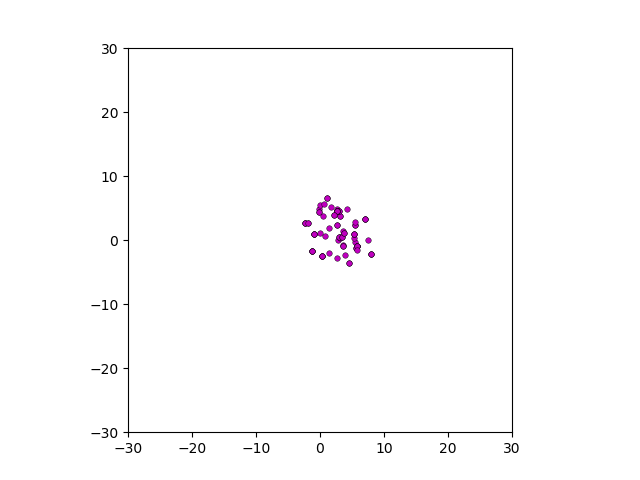
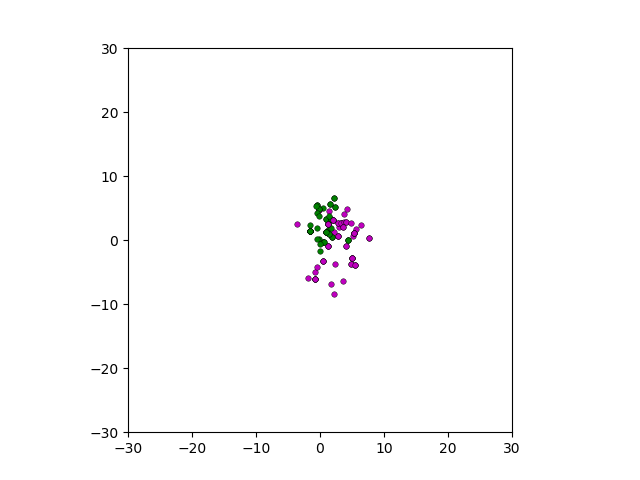
Commit 7-12-18 1517
Modified cell_count function so that if cell_type was unspecified, then the entire cell_count was returned. Added print statement to track the number of cells of each type at each time step.

Changed region(s): [[0.4688, 0.4062, 0.5938, 0.5938], [0.5, 0.5938, 0.5312, 0.625]]

diff --git a/tumor_simulation-HLL.py b/tumor_simulation-HLL.py
@@ -12,9 +12,9 @@ DX = 1.  # Grid spacing
 D = .05  # Diffusion constant
 tau_D = 1 / (2 * DIM) * DX ** 2 / D  # Diffusion time constant
 
-RATE_B = {'A': 0.1, 'B': 0.2}
+RATE_B = {'A': 0.1, 'B': 0.3}
 # TO DO: for multiple cell types, RATE_B will be a dictionary indicating birth rates of each cell
-RATE_D = 0.05  # Death rate
+RATE_D = 0.03  # Death rate
 CARRYING_CAPACITY = 20  # Number of sustainable cells at each gridpoint
 
 k1 = (1 - 0.33) / np.log(2)
@@ -26,7 +26,7 @@ CELL_TYPES_LIST = ('A', 'B')
 CELL_COLORS = {'A': 'm', 'B': 'g'}
 
 t_final = 150.
-MUT_TIME = 0.5 * t_final
+MUT_TIME = 0.1 * t_final
 
 class Cell:
     """A cell object contains the information about a tumor cell.
@@ -325,5 +325,5 @@ while t < t_final:
     filepath = os.path.join(SAVE_DIR, filename + '.png')
     images.append(imageio.imread(filepath))
 
-imageio.mimsave(SAVE_DIR + 'animation.gif', images, duration=0.2)
+imageio.mimsave(SAVE_DIR + 'animationLLL.gif', images, duration=0.2)
 print('Animation successfully assembled')

diff --git a/tumor_simulation-LLL.py b/tumor_simulation-LLL.py
@@ -12,9 +12,9 @@ DX = 1.  # Grid spacing
 D = .05  # Diffusion constant
 tau_D = 1 / (2 * DIM) * DX ** 2 / D  # Diffusion time constant
 
-RATE_B = {'A': 0.1, 'B': 0.2}
+RATE_B = {'A': 0.1, 'B': 0.1}
 # TO DO: for multiple cell types, RATE_B will be a dictionary indicating birth rates of each cell
-RATE_D = 0.05  # Death rate
+RATE_D = 0.03  # Death rate
 CARRYING_CAPACITY = 20  # Number of sustainable cells at each gridpoint
 
 k1 = (1 - 0.33) / np.log(2)
@@ -26,7 +26,7 @@ CELL_TYPES_LIST = ('A', 'B')
 CELL_COLORS = {'A': 'm', 'B': 'g'}
 
 t_final = 150.
-MUT_TIME = 0.5 * t_final
+MUT_TIME = 0.1 * t_final
 
 class Cell:
     """A cell object contains the information about a tumor cell.
@@ -325,5 +325,5 @@ while t < t_final:
     filepath = os.path.join(SAVE_DIR, filename + '.png')
     images.append(imageio.imread(filepath))
 
-imageio.mimsave(SAVE_DIR + 'animation.gif', images, duration=0.2)
+imageio.mimsave(SAVE_DIR + 'animationLLL.gif', images, duration=0.2)
 print('Animation successfully assembled')
